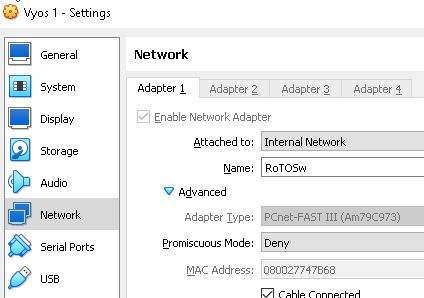
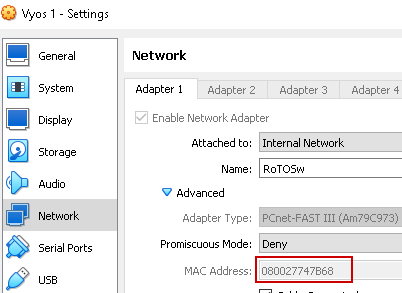
Lubuntu config E04

diff --git a/documentation/E04.md b/documentation/E04.md
@@ -66,12 +66,37 @@ Note to self: Danger! Always use poweroff -command with the Vyos the virtual mac
 Trying to find information about the adapters:
 
 ![](/documentation/E04/vyosadapter1mac.png) 
+
 Which corresponds with :
 
 ![](/documentation/E04/VyosSettingsAdapter1Mac.png) 
 
+Adding a description and looking around for the information above to further test the commands of the router. Then setting the IP addresses  for the router in the two subnets which will be in connection with lubuntu1 and 2. 
+
+![](/documentation/E04/Vyos1configuration_1.png) 
+
+
 
 ## Configuring Lubuntu-machines
+
+Booting up Lubuntu1 and Lubuntu2 to update the new IP address and setting the gateway address from each Lubuntu to the corresponding subnet ip the router has for each vlan. 
+Testing the new configurations by reconnecting to update the network, then checking the ip address and subnet mask which hopefully are updated. Lastly trying to ping the router.
+
+### Lubuntu 1
+![](/documentation/E04/Lubuntu1Config_1.png) 
+
+IP address and mask was updated, and other addresses like the broadcast is also visible. Pinging the router by its VLAN "workstations" IP address:
+
+![](/documentation/E04/Lubuntu1_Config_ping.png) 
+
+Successful ping. 
+
+### Lubuntu 2
+IP address and mask was updated. Pinging the router by its VLAN "secretbasement" IP address:
+
+![](/documentation/E04/Lubuntu2Config.png) 
+
+Great Success. 
 
 
 # Updated Physical and Logical topology charts
